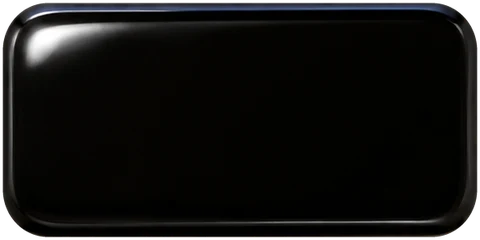
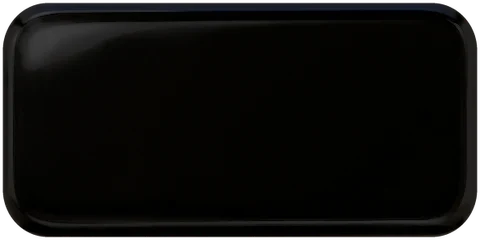
Update dominoes tile/board images.

diff --git a/dominoes.html b/dominoes.html
@@ -28,6 +28,7 @@
 /* Nov 19: Judy's photo trays (dm/t-<k>.webp, remapped to 860 x 860 with 36 px rims): each rim and felt layer shows its own slice, so the depth stays */
 html.dmph .do-tray .do-rim,html.dmph .do-tray .do-felt{background:var(--do-ph) no-repeat;background-size:860px 860px;box-shadow:none}
 html.dmph .do-rim::after{display:none}
+html.dmph .do-tray .do-felt.a{width:788px;height:788px}html.dmph .do-tray .do-felt.b,html.dmph .do-tray .do-felt.c,html.dmph .do-tray .do-felt.d{display:none}
 html.dmph .do-tray .do-rim.t,html.dmph .do-tray .do-rim.b{width:860px}html.dmph .do-tray .do-rim.t2,html.dmph .do-tray .do-rim.b2{display:none}
 html.dmph .do-rim.t{background-position:0 0}html.dmph .do-rim.t2{background-position:-430px 0}
 html.dmph .do-rim.b{background-position:0 -824px}html.dmph .do-rim.b2{background-position:-430px -824px}
@@ -38,6 +39,11 @@ html.dmph .do-felt.c{background-position:-36px -430px}html.dmph .do-felt.d{backg
 html.dmtl .dm .f{background:var(--do-tf) center/100% 100% no-repeat;box-shadow:none}html.dmtl .dm.v .f{background-image:var(--do-tfv)}
 html.dmtl .dm .bk{background:var(--do-tb) center/100% 100% no-repeat;box-shadow:none}html.dmtl .dm.v .bk{background-image:var(--do-tbv)}
 html.dmtl .dm .s,html.dmtl .dm .f,html.dmtl .dm .bk{border-radius:calc(var(--rad,7px) * 1.35)}
+/* Nov 19: the gold "you can play this" ring (the photo faces had hidden it), gently pulsing; picked and hint states as before */
+html.dmtl .dm.play .f{box-shadow:inset 0 0 0 3px rgba(214,164,62,.95),inset 0 0 18px 2px rgba(240,190,90,.5),0 0 14px 3px rgba(246,200,96,.55);animation:dm-play 1.6s ease-in-out infinite}
+@keyframes dm-play{50%{box-shadow:inset 0 0 0 3px rgba(214,164,62,.7),inset 0 0 10px 1px rgba(240,190,90,.3),0 0 6px 1px rgba(246,200,96,.3)}}
+html.dmtl .dm.pick .f{box-shadow:inset 0 0 0 4px #e9b949,inset 0 0 22px 6px rgba(250,205,110,.7),0 0 18px 5px rgba(250,205,110,.6);animation:none}
+html.dmtl .dm.glow .bk{box-shadow:inset 0 0 0 3px rgba(214,164,62,.95),inset 0 0 18px 2px rgba(240,190,90,.5)}
 .do-felt{width:394px;height:394px;transform:translateZ(-22px);background-image:var(--do-felt);background-size:256px 256px;background-color:var(--do-feltc)}
 .do-felt.a{left:36px;top:36px}.do-felt.b{left:430px;top:36px}.do-felt.c{left:36px;top:430px}.do-felt.d{left:430px;top:430px}
 .do-feltsh{left:36px;top:36px;width:788px;height:788px;transform:translateZ(-21.6px);pointer-events:none;
@@ -52,7 +58,7 @@ html.dmtl .dm .s,html.dmtl .dm .f,html.dmtl .dm .bk{border-radius:calc(var(--rad
 .do-rim.l{left:0;top:36px;width:36px;height:788px;background-position:-40px 0}.do-rim.r{left:824px;top:36px;width:36px;height:788px;background-position:-300px -100px}
 .do-rim.l::after{background:linear-gradient(to right,rgba(255,235,200,.2),rgba(0,0,0,.3))}.do-rim.r::after{background:linear-gradient(to right,rgba(255,235,200,.12),rgba(0,0,0,.35))}
 .do-rack{left:136px;width:588px;height:118px;border-radius:10px;transform:translateZ(-21.4px);background:rgba(0,0,0,.18);box-shadow:inset 0 2px 8px rgba(0,0,0,.45),0 1px 0 rgba(255,255,255,.08);pointer-events:none}
-.do-rack.near{top:722px}.do-rack.far{top:56px}
+.do-rack.near{top:686px}.do-rack.far{top:56px}
 .do-gold{position:absolute;pointer-events:none;transform:translateZ(1.6px);background:linear-gradient(90deg,#8a6526,#f3d790 30%,#b8913f 60%,#f3d790 85%,#8a6526)}
 /* ---- a domino: stacked slabs make the edge, a face (or back) on top ---- */
 .dm{position:absolute;left:0;top:0;-webkit-tap-highlight-color:transparent}
@@ -69,6 +75,7 @@ html.dmtl .dm .s,html.dmtl .dm .f,html.dmtl .dm .bk{border-radius:calc(var(--rad
 .dm .mono i{font:400 .76em Pacifico,cursive;font-style:normal;margin-left:.06em;padding:0 .18em 0 .02em}
 .dm .half{flex:1;display:grid;grid-template:repeat(3,1fr)/repeat(3,1fr);padding:14%}
 .dm.v .half{padding:14% 16%}
+.dm.h .half{padding:8% 7%}   /* Nov 19: % padding is of the long side on sideways tiles, so halve it: same pips as the hand */
 .dm .half i{width:66%;aspect-ratio:1;border-radius:50%;margin:auto;visibility:hidden;background:radial-gradient(circle at 60% 65%,var(--do-pip) 45%,var(--do-pip2) 100%);box-shadow:inset 0 2px 2px rgba(0,0,0,.55),0 1px 0 rgba(255,255,255,.55)}
 .dm .half i.on{visibility:visible}
 .dm .bar{flex:none;background:var(--do-bar);box-shadow:0 1px 0 rgba(255,255,255,.5)}
@@ -195,7 +202,7 @@ function applyDesign(k){
 }
 /* Nov 19: switch the photo tray and tiles on once their files load (the drawn ones stay as the fallback) */
 function dmPhotos(k){
-  var html=document.documentElement, s=stage.style, v="?v=1119a";
+  var html=document.documentElement, s=stage.style, v="?v=1119b";
   html.classList.remove("dmph","dmtl");
   var t=new Image(); t.onload=function(){ if(curDesign!==k) return; s.setProperty("--do-ph",'url("dm/t-'+k+'.webp'+v+'")'); html.classList.add("dmph"); }; t.src="dm/t-"+k+".webp"+v;
   var n=4, U={"--do-tf":"f-"+k,"--do-tfv":"f-"+k+"-v","--do-tb":"b-"+k,"--do-tbv":"b-"+k+"-v"};
@@ -227,15 +234,15 @@ function glide(e,to,z1,rz){
 }
 
 /* ---------- where things sit ---------- */
-var NEAR_Y=781, FAR_Y=115;
+var NEAR_Y=745, FAR_Y=115;   /* Nov 19: your hand mirrors the far one (it sat on the frame) */
 function rowXY(n,k,y){ var sp=n>1?Math.min(72,520/(n-1)):0; return [430-(n-1)*sp/2+k*sp, y]; }
 /* the boneyard sits in the corner on your side, next to your own tiles, where you'll look for it */
-function boneXY(k){ return [752+(k%2)*46, 781, FZ+Math.floor(k/2)*8]; }
+function boneXY(k){ return [752+(k%2)*46, 745, FZ+Math.floor(k/2)*8]; }
 /* the train winds: from the first tile, one end runs right, turns down and comes back along the bottom;
    the other runs left, turns up and comes back along the top, so the two ends never meet.
    If a very long train would run past the end of its lane, every train tile shrinks a little until it fits. */
 var LEGS={
-  right:[[1,0,function(x,y){return x>796;}],[0,1,function(x,y){return y>706;}],[-1,0,function(x,y){return x<64;}]],
+  right:[[1,0,function(x,y){return x>796;}],[0,1,function(x,y){return y>682;}],[-1,0,function(x,y){return x<64;}]],
   left:[[-1,0,function(x,y){return x<64;}],[0,-1,function(x,y){return y<178;}],[1,0,function(x,y){return x>796;}]]
 };
 function trainSpots(ch,start,sc){
